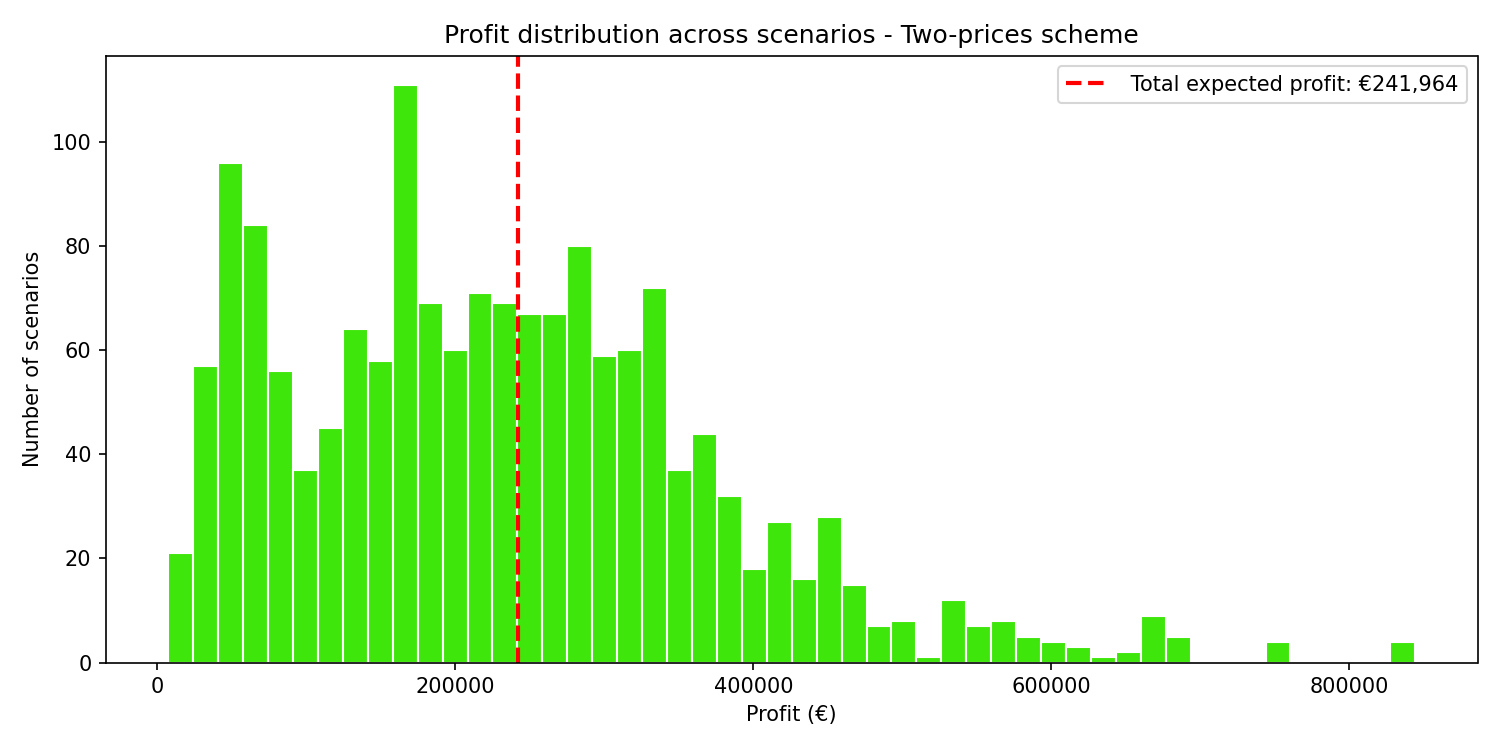
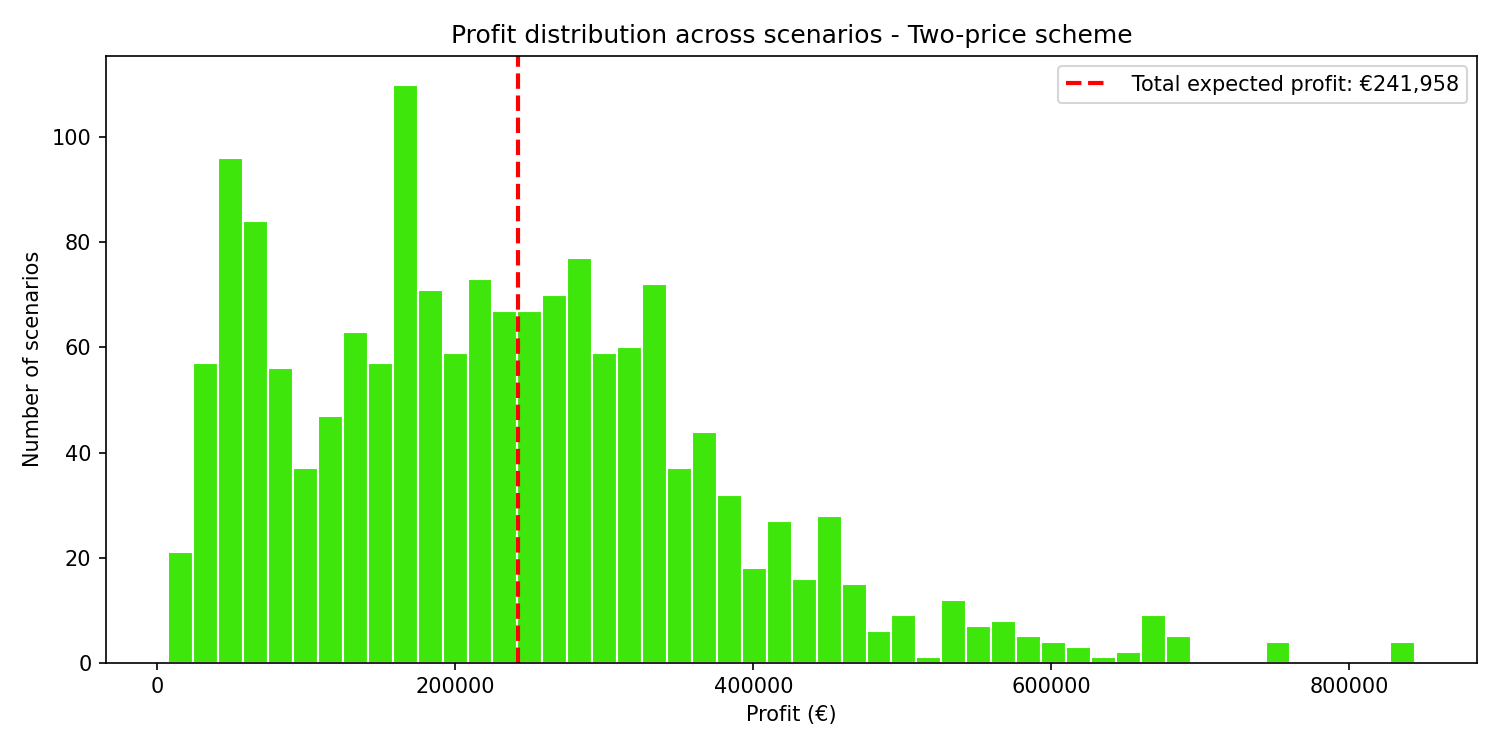
Merging of step1 task 1 and 2 into a single script. Made plot for comparison of bid quantity between one price and two price.

diff --git a/Step1_Task1.py b/Step1_Task1.py
@@ -2,14 +2,16 @@ import numpy as np
 from step1.data import (
     wind_mw, lambda_DA, si, prob, SCENARIOS, HOURS, PLOTS
 )
-from step1.models import compute_balancing_prices_one, solve_one_price
-from step1.plots import plot_profit_histogram
 
+from step1.models import compute_balancing_prices_one, solve_one_price, compute_balancing_prices_two, solve_two_price
+from step1.plots import plot_Mean_Wind_Generation_And_DA_Price, plot_profit_histogram
+# -------- Task 1 --------
+print("------ Task 1: One-price scheme ------")
 # compute balancing prices
 lambda_B = compute_balancing_prices_one(lambda_DA, si)
 
 # solve one-price model (beta=0: pure expected-profit maximisation)
-p_DA_values, scenario_profit, _ = solve_one_price(
+p_DA_One_Price_values, scenario_profit, _ = solve_one_price(
     SCENARIOS, prob, wind_mw, lambda_DA, lambda_B, verbose=True
 )
 
@@ -17,8 +19,8 @@ p_DA_values, scenario_profit, _ = solve_one_price(
 hourly_profit = {
     h: sum(
         prob[omega] * (
-            lambda_DA.loc[omega, h] * p_DA_values[h] +
-            lambda_B.loc[omega, h]  * (wind_mw.loc[omega, h] - p_DA_values[h])
+            lambda_DA.loc[omega, h] * p_DA_One_Price_values[h] +
+            lambda_B.loc[omega, h]  * (wind_mw.loc[omega, h] - p_DA_One_Price_values[h])
         )
         for omega in SCENARIOS
     )
@@ -30,7 +32,7 @@ total_profit = sum(hourly_profit.values())
 print(f"Total expected profit: {total_profit:.2f} €")
 print("Hourly offers and profits:")
 for h in HOURS:
-    print(f"  Hour {h:2d}: p_DA = {p_DA_values[h]:.2f} MW, profit = {hourly_profit[h]:.2f}")
+    print(f"  Hour {h:2d}: p_DA = {p_DA_One_Price_values[h]:.2f} MW, profit = {hourly_profit[h]:.2f}")
 
 # statistical analysis of scenarios
 profits_array = np.array(list(scenario_profit.values()))
@@ -52,5 +54,69 @@ plot_profit_histogram(
     scenario_profit, prob,
     title="Profit distribution across scenarios - One-price scheme",
     save_path=PLOTS / "Task1.1_profit_distribution.png",
+    color="#fa9537"
+)
+
+
+
+# -------- Task 2 --------
+print()
+print("------ Task 2: Two-price scheme ------")
+
+# compute two-price balancing prices
+lambda_B_up, lambda_B_down = compute_balancing_prices_two(lambda_DA, si)
+
+# solve two-price model (beta=0: pure expected-profit maximisation)
+p_DA_Two_Price_values, scenario_profit, _ = solve_two_price(
+    SCENARIOS, prob, wind_mw, lambda_DA, lambda_B_up, lambda_B_down, verbose=True
+)
+
+# hourly expected profit
+hourly_profit = {
+    h: sum(
+        prob[omega] * (
+            lambda_DA.loc[omega, h]     * p_DA_Two_Price_values[h] +
+            lambda_B_up.loc[omega, h]   * max(wind_mw.loc[omega, h] - p_DA_Two_Price_values[h], 0) -
+            lambda_B_down.loc[omega, h] * max(p_DA_Two_Price_values[h] - wind_mw.loc[omega, h], 0)
+        )
+        for omega in SCENARIOS
+    )
+    for h in HOURS
+}
+
+total_profit = sum(hourly_profit.values())
+
+print(f"Total expected profit: {total_profit:.2f} €")
+print("Hourly offers and profits:")
+for h in HOURS:
+    print(f"  Hour {h:2d}: p_DA = {p_DA_Two_Price_values[h]:.2f} MW, profit = {hourly_profit[h]:.2f}")
+
+# statistical analysis of scenarios
+profits_array = np.array(list(scenario_profit.values()))
+min_val   = profits_array.min()
+max_val   = profits_array.max()
+range_val = max_val - min_val
+
+print()
+print(f"Range: €{range_val:,.2f}")
+print(f"Expected profit:    €{np.average(profits_array, weights=list(prob.loc[SCENARIOS])):.2f}")
+print(f"Standard deviation: €{np.std(profits_array):.2f}")
+print(f"Std Dev / Range: {np.std(profits_array) / range_val:.1%}")
+print(f"Minimum profit:     €{min_val:,.2f}")
+print(f"Maximum profit:     €{max_val:,.2f}")
+print(f"Median profit:      €{np.median(profits_array):.2f}")
+
+# plot profit distribution
+plot_profit_histogram(
+    scenario_profit, prob,
+    title="Profit distribution across scenarios - Two-price scheme",
+    save_path=PLOTS / "Task1.2_profit_distribution.png",
+    color="#3fe60c"
+)
+
+# plot mean wind generation and day-ahead price across hours
+plot_Mean_Wind_Generation_And_DA_Price(
+    wind_mw, p_DA_One_Price_values, p_DA_Two_Price_values, HOURS,
+    save_path=PLOTS / "Task1.2_mean_wind_and_da_price.png",
     color="#fa9537"
 )

diff --git a/step1/plots.py b/step1/plots.py
@@ -38,6 +38,49 @@ def plot_profit_histogram(scenario_profit, prob, title, save_path, color="#fa953
     plt.savefig(save_path, dpi=150)
     plt.show()
 
+def plot_Mean_Wind_Generation_And_DA_Price(wind_mw, lambda_One_Price_DA, lambda_Two_Price_DA, hours, save_path, color = "#fa9537"):
+    """
+    Plot of mean wind generation and day-ahead price across hours.
+
+    Parameters
+    ----------
+    wind_mw   : DataFrame of wind power realisations (scenarios × hours)
+    lambda_One_Price_DA : DataFrame of one-price day-ahead prices (scenarios × hours)
+    lambda_Two_Price_DA : DataFrame of two-price day-ahead prices (scenarios × hours)
+    hours     : list of hour IDs to include in the plot
+    save_path : Path-like – file to save the figure to
+    color     : str – line colour for wind generation
+    """
+    hours = list(hours)
+    mean_wind = wind_mw[hours].mean()
+
+    def _hourly_values(values):
+        if isinstance(values, pd.DataFrame):
+            if set(hours).issubset(values.columns):
+                return values[hours].mean()
+            return values.mean(axis=0).reindex(hours)
+        if isinstance(values, pd.Series):
+            return values.reindex(hours)
+        return pd.Series(values).reindex(hours)
+
+    price_one = _hourly_values(lambda_One_Price_DA)
+    price_two = _hourly_values(lambda_Two_Price_DA)
+
+    fig, ax1 = plt.subplots(figsize=(10, 5))
+
+    ax1.set_xlabel('Hour of Day')
+    ax1.set_ylabel('Power (MW)', color=color)
+    ax1.plot(hours, mean_wind, marker='o', color=color, label='Mean Wind Generation (MW)')
+    ax1.plot(hours, price_one.values, marker='s', color='steelblue', label='One-Price Day-Ahead Price')
+    ax1.plot(hours, price_two.values, marker='^', color='darkgreen', label='Two-Price Day-Ahead Price')
+    ax1.tick_params(axis='y', labelcolor=color)
+    ax1.legend(loc='upper left')
+
+    plt.title('Mean Wind Generation and Day-Ahead Price Across Hours')
+    fig.tight_layout()
+    plt.savefig(save_path, dpi=150)
+    plt.show()
+
 
 def plot_cvar_frontier(frontier_df, title, save_path):
     """
